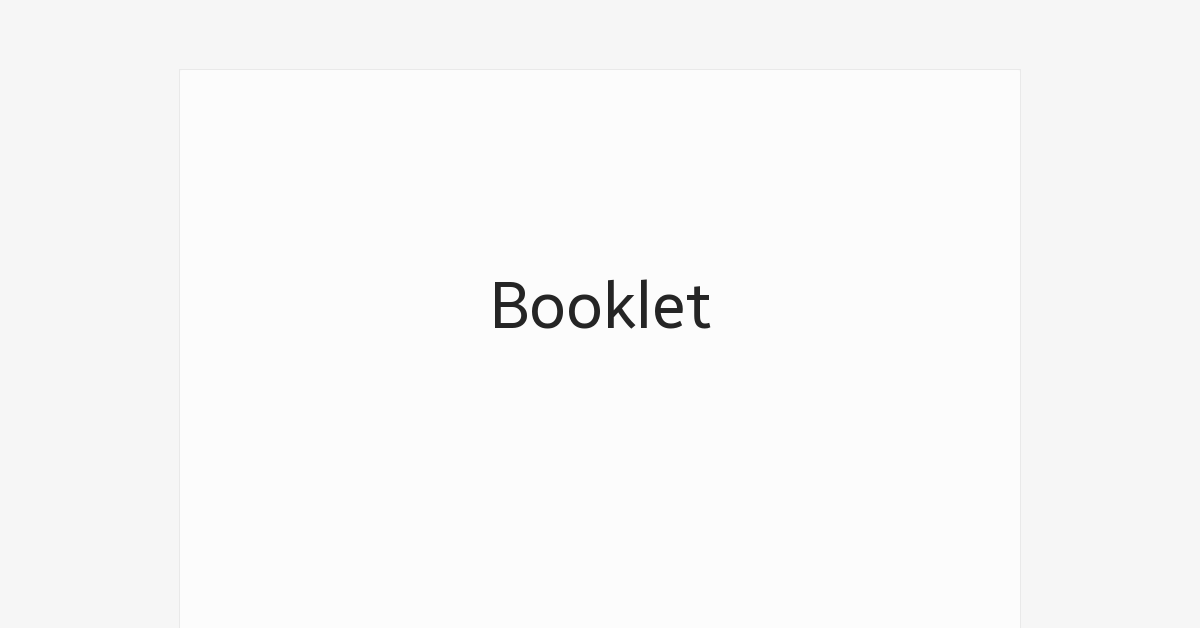
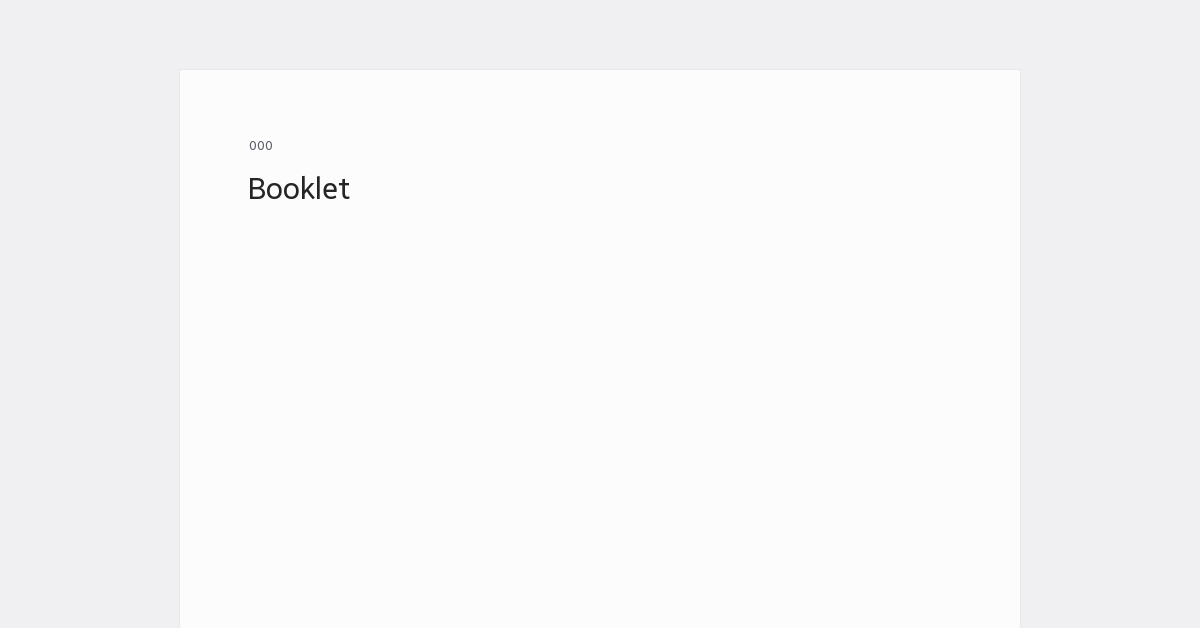
deploy: 32ce0ec45aecb33026d4080f1f7ce53247227e8f

Changed region(s): [[0.4008, 0.4538, 0.5858, 0.5446], [0.185, 0.2723, 0.3083, 0.3328]]

diff --git a/overview/index.html b/overview/index.html
@@ -10,8 +10,8 @@
     <!---->
 
     <!---->
-    <meta content="#f6f6f6" name="theme-color" />
-    <meta content="#f6f6f6" name="theme-color" media="(prefers-color-scheme: light)" />
+    <meta content="#f0f0f2" name="theme-color" />
+    <meta content="#f0f0f2" name="theme-color" media="(prefers-color-scheme: light)" />
     <meta content="#171b22" name="theme-color" media="(prefers-color-scheme: dark)" />
     <!---->
 
@@ -27,6 +27,8 @@
     <!---->
 
     <style>
+      /* */
+
       html {
         font-size: 16px;
 
@@ -34,6 +36,8 @@
         --a4-hei: calc(52.5rem * (29.69 / 21));
         --a4-mar:  4.375rem 4.375rem;
       }
+
+      /* */
 
       body,
       body * {
@@ -46,8 +50,10 @@
         display: none;
       }
 
+      /* */
+
       body {
-        background: #f6f6f6;
+        background: #f0f0f2;
 
         overflow: hidden scroll;
         overflow: hidden overlay;
@@ -60,6 +66,14 @@
         display: none;
       }
 
+      ::selection {
+        color: #ffffff;
+        background: #191919;
+        text-decoration: none;
+      }
+
+      /* */
+
       main {
         display: grid;
         justify-content: center;
@@ -67,9 +81,23 @@
         grid-auto-flow: row;
         gap: 1.25rem;
         padding: 1.25rem;
-
-        width: 100vw;
+ 
         margin: 3.125rem 0rem;
+      }
+
+      /*main {
+        width: calc(100vw - 20rem);
+        margin-left: 20rem;
+      }*/
+
+      /* */
+
+      nav {
+        position: fixed;
+        inset: 0rem aut 0rem 0rem;
+
+        width: 20rem;
+        background: green;
       }
 
       header {
@@ -84,8 +112,6 @@
 
         height: 3.125rem;
         padding: 0rem 2.5rem;
-
-        background: #f6f6f6;
       }
 
       header::after {
@@ -100,16 +126,17 @@
         app-region: drag;
       }
 
+      /* */
+
       section {
         display: grid;
-        grid-auto-flow: column;
-        align-items: flex-start;
+        grid-auto-rows: minmax(min-content, max-content);
 
         width: var(--a4-wid);
         height: var(--a4-hei);
 
         background: #fcfcfc;
-        border-radius: 2px;
+        border-radius: 0.125rem;
         outline: 1px solid #e9e9e9;
 
         padding: var(--a4-mar);
@@ -117,52 +144,81 @@
         box-shadow: 0 1px 0 0.5px rgb(22 29 37 / 5%);
       }
 
+      /* */
+
+      @page {
+        margin: 0rem 0rem;
+      }
+      
       @media print {
         html {
           font-size: calc(1cm / 40 * 16);
         }
 
-        body {
-          margin: 0rem;
-          padding: 0rem;
+        body, 
+        body > main {
+          padding: 0rem 0rem;
+        }
+
+        body, 
+        body > main,
+        body > main > section {
+          margin: 0rem 0rem;
+          
+          background: white;
+          border-radius: none;
+          outline: none;
+          box-shadow: none;
         }
 
         main {
           gap: 0rem;
-          padding: 0rem;
-          background: transparent;
-
-          margin: 0rem 0rem;
-        }
-        
-        section {
-          background: transparent;
-          border-radius: none;
-          outline: none;
-          box-shadow: none;
-
-          margin: 0rem 0rem;
+          width: var(--a4-wid);
         }
       }
 
-      @page {
-        margin: 0rem 0rem;
-      }
+ 
 
-      .type.watermark {
+    </style>
+    <style>
+      /* */
+
+      .type {
         font-family: 'Breeze Sans';
-        font-size: 4rem;
+        font-variant-numeric: proportional-nums;
 
-        margin: 8rem auto;
+        line-height: 1em;
+
+        margin: -0.22ex -0.15ch;
+      }
+
+      .type.anker {
+        font-size: 0.825rem;
+        color: #585b63;
+
+        height: 1.25rem;
+        margin-bottom:  1.25rem;
+
+        cursor: pointer;
+      }
+      
+      .type.watermark {
+        font-size: 1.875rem;
         color: #252525;
+
+        height: 2.5rem;
       }
     </style>
   </head>
   <body>
     <header></header>
 
+    <nav>
+    </nav>
+
     <main>
       <section>
+        <a id="000" href="#000" class="type anker">000</a>
         <h1 class="type watermark">Booklet</h1>
       </section>
       <section></section>
